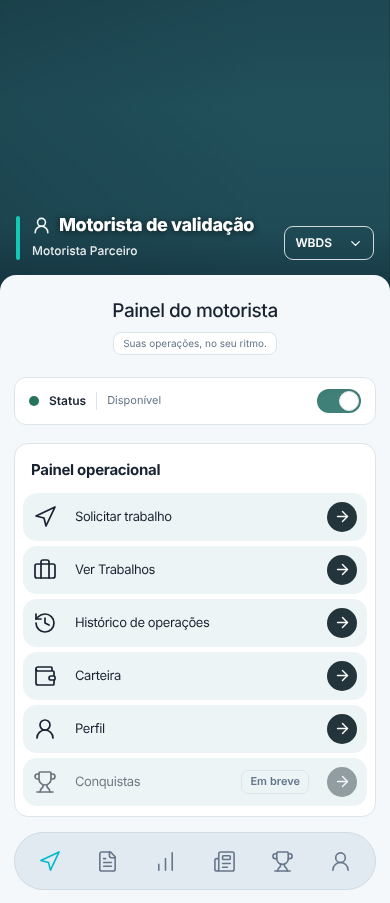
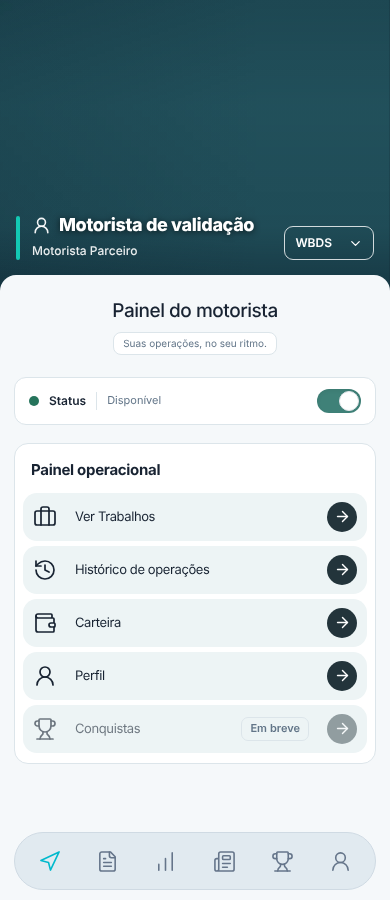
v81: Painel operacional sem Solicitar trabalho; Perfil abre o Resumo do período — Android 1.0.587, Web 2.3.244, Windows 0.2.13
Claude-Session: https://claude.ai/code/session_01ASk6AVRSjq21hzr82RT83a

diff --git a/src/components/driver/DriverIdlePanel.tsx b/src/components/driver/DriverIdlePanel.tsx
@@ -1,5 +1,5 @@
 import React, { useState } from "react";
-import { ArrowLeft, ArrowRight, Briefcase, CheckCircle2, ChevronDown, ChevronRight, Clock, History, Navigation, Route, Trophy, UserRound, Wallet } from "lucide-react";
+import { ArrowLeft, ArrowRight, Briefcase, CheckCircle2, ChevronDown, ChevronRight, Clock, History, Route, Trophy, UserRound, Wallet } from "lucide-react";
 import type { LucideIcon } from "lucide-react";
 import { useSessionStore } from "../../context/AppContext";
 import { useDriverRewards } from "../../hooks/useRewards";
@@ -17,12 +17,10 @@ type IdleMenuItem = { id: string; label: string; icon: LucideIcon; hint?: string
  * Painel do motorista sem operação: status no topo e uma lista de opções (mesmo desenho da Central de gestão).
  * "Ver Trabalhos" e "Histórico de operações" abrem a própria tela dentro do painel, com botão de voltar.
  */
-export function DriverIdlePanel({ online, suspended, onAvailabilityChange, request, onProfile, onWallet, workJobIds = [], works, history, defaultView = "menu", children }: {
+export function DriverIdlePanel({ online, suspended, onAvailabilityChange, onProfile, onWallet, workJobIds = [], works, history, defaultView = "menu", children }: {
   online: boolean;
   suspended: boolean;
   onAvailabilityChange: (online: boolean) => void;
-  /** Estado do pedido de trabalho; a opção "Solicitar trabalho" envia o pedido (com um pedido em andamento, abre "Ver Trabalhos" para acompanhar/cancelar). */
-  request: { pending: boolean; busy: boolean; success: boolean; onRequest: () => void };
   onProfile: () => void;
   /** Abre a página Carteira (ofertas, recebimentos e histórico de ganhos). */
   onWallet: () => void;
@@ -39,11 +37,7 @@ export function DriverIdlePanel({ online, suspended, onAvailabilityChange, reque
   const { offers } = useDriverRewards(currentUser?.id);
   const worksCount = workJobIds.length, worksNew = offers.filter(offer => offer.status === "pending" && offer.jobId && workJobIds.includes(offer.jobId)).length;
   const id = React.useId();
-  const blocked = suspended || !online;
-  const requestHint = suspended ? "Bloqueado na suspensão" : !online ? "Fique disponível" : request.pending ? "Aguardando a empresa" : request.busy ? "Enviando…" : request.success ? "Solicitação enviada" : undefined;
   const items: IdleMenuItem[] = [
-    { id: "request", label: "Solicitar trabalho", icon: Navigation, hint: requestHint, disabled: request.pending ? false : blocked || request.busy || request.success,
-      onSelect: () => (request.pending ? setView("works") : request.onRequest()) },
     { id: "works", label: "Ver Trabalhos", icon: Briefcase, badge: worksNew > 0 ? `${worksNew} ${worksNew === 1 ? "nova" : "novas"}` : worksCount || undefined, onSelect: () => setView("works") },
     { id: "history", label: "Histórico de operações", icon: History, onSelect: () => setView("history") },
     { id: "wallet", label: "Carteira", icon: Wallet, onSelect: onWallet },

diff --git a/scripts/fixtures/driver-idle-panel-492.tsx b/scripts/fixtures/driver-idle-panel-492.tsx
@@ -37,7 +37,6 @@ function App() {
       <main className="nvu-driver-surface" data-page="dashboard">
         <DriverIdlePanel key={`panel:${generation}`} defaultView={config.view || "menu"} online={config.online !== false} suspended={Boolean(config.suspended)}
           onAvailabilityChange={online => { calls.push({ action: "availability", online }); setConfig((v: any) => ({ ...v, online })); }}
-          request={{ pending: Boolean(config.pending), busy: Boolean(config.busy), success: Boolean(config.success), onRequest: () => { calls.push({ action: "request" }); setConfig((v: any) => ({ ...v, pending: true })); } }}
           onProfile={() => calls.push({ action: "profile" })} onWallet={() => calls.push({ action: "wallet" })} workJobIds={config.manual ? [manual.id] : []}
           works={<>
           <DriverWorkRequest variant="panel" online={config.online !== false} suspended={Boolean(config.suspended)} busy={Boolean(config.busy)}

diff --git a/src/pages/driver/Dashboard.tsx b/src/pages/driver/Dashboard.tsx
@@ -1003,8 +1003,7 @@ function DashboardComponent({
       <DriverIdlePanel
         online={Boolean(currentUser?.isOnline)} suspended={operationalSuspension.active}
         onAvailabilityChange={updateUserOnlineStatus}
-        request={{ pending: Boolean(myDemand), busy: isSubmittingDemand, success: demandSuccess, onRequest: () => void handleRequestDemand() }}
-        onProfile={() => navigate("/driver/profile")} onWallet={() => navigate("/driver/recompensas")}
+        onProfile={() => navigate("/driver/profile", { state: { profileTab: "profile" } })} onWallet={() => navigate("/driver/recompensas")}
         workJobIds={pendingDriverJobs.map(job => job.id)}
         works={<>
           {solicitarTrabalhoCard}

diff --git a/capacitor.config.ts b/capacitor.config.ts
@@ -15,7 +15,7 @@ const selfHostedOtaEnabled =
   && Boolean(selfHostedOtaManifestUrl)
   && Boolean(selfHostedOtaPublicKey);
 const nativeChannel = String(
-  process.env.NVU_NATIVE_CHANNEL || "production-586",
+  process.env.NVU_NATIVE_CHANNEL || "production-587",
 ).trim();
 
 /**

diff --git a/desktop/windows/README.md b/desktop/windows/README.md
@@ -1,4 +1,4 @@
-# NVU PRO Windows 0.2.12
+# NVU PRO Windows 0.2.13
 
 Aplicativo Windows (Electron) e plugin de telemetria SCS (ETS2/ATS) do mesmo projeto Web/Android. Este documento é técnico; o guia para o usuário final é `GUIA-ATUALIZAR-NVU-E-PREPARAR-ETS2-ATS.md`.
 
@@ -8,7 +8,7 @@ Aplicativo Windows (Electron) e plugin de telemetria SCS (ETS2/ATS) do mesmo pro
 
 | Arquivo | Para quem |
 |---|---|
-| `NVU-PRO-Setup-0.2.12-x64.exe` | **Principal.** Instala ou atualiza a NVU (por usuário, sem administrador). |
+| `NVU-PRO-Setup-0.2.13-x64.exe` | **Principal.** Instala ou atualiza a NVU (por usuário, sem administrador). |
 | `release-manifest.json`, `SHA256SUMS.txt`, `Verificar-NVU.ps1` | Conferência do arquivo baixado (tamanho, SHA-256, assinatura). |
 | `nvu_scs_telemetry.dll` + `.manifest.json` e `plugin/` (fonte) | Opcional/técnico: plugin e fonte do plugin. |
 | Projeto completo (ZIP) e relatório | Opcional/técnico. |
@@ -29,7 +29,7 @@ npm run windows:verify                # reverifica artifacts/windows (tamanho, S
 npm run windows:portable              # secundário: ZIP sem instalação
 npm run windows:dev                   # abre o aplicativo a partir do código
 npm run test:role-matrix              # matriz por papel (emulador, dados fictícios)
-bash desktop/windows/tests/e2e/wine-installer-check.sh artifacts/windows/NVU-PRO-Setup-0.2.12-x64.exe ~/wine-nvu   # emulado (Wine), prefixo descartável
+bash desktop/windows/tests/e2e/wine-installer-check.sh artifacts/windows/NVU-PRO-Setup-0.2.13-x64.exe ~/wine-nvu   # emulado (Wine), prefixo descartável
 ```
 
 A versão do aplicativo e do plugin vem de **uma única fonte**: `desktop/windows/package.json` (`version` e `nvu.pluginVersion`). O build do plugin grava a versão na DLL e gera `nvu_scs_telemetry.manifest.json` (SHA-256/tamanho); o aplicativo confere a DLL empacotada com esse manifesto ao iniciar.

diff --git a/LEIA-ME-1.0.587.md b/LEIA-ME-1.0.587.md
@@ -1,6 +1,11 @@
-# NVU PRO 1.0.586 (Android) / Web 2.3.243 / Windows 0.2.12
+# NVU PRO 1.0.587 (Android) / Web 2.3.244 / Windows 0.2.13
 
-Base atual do projeto (branch `dist-build`). **Uma única base**: Web (`src/`), Android (`android/`, `versionCode` 586 — instala como atualização da 585/584/583/582/581/580/579/578/577/576/575/574/573/572/571/570/569/568/567/566/565/564/563/562/561/560/559/558/557/556/555/554/553/552/551/550, sem limpar dados), Windows (`desktop/windows/`, 0.2.9, carrega o mesmo web) e servidor (`functions/`, `firestore.rules`, `storage.rules`).
+Base atual do projeto (branch `dist-build`). **Uma única base**: Web (`src/`), Android (`android/`, `versionCode` 587 — instala como atualização da 586/585/584/583/582/581/580/579/578/577/576/575/574/573/572/571/570/569/568/567/566/565/564/563/562/561/560/559/558/557/556/555/554/553/552/551/550, sem limpar dados), Windows (`desktop/windows/`, 0.2.9, carrega o mesmo web) e servidor (`functions/`, `firestore.rules`, `storage.rules`).
+
+## 1.0.587 — Painel operacional: sem “Solicitar trabalho”, Perfil abre o Resumo do período
+- **Removida a opção “Solicitar trabalho”** do Painel operacional (o pedido continua em “Ver Trabalhos”). A lista fica: Ver Trabalhos, Histórico de operações, Carteira, Perfil e Conquistas (em breve).
+- **“Perfil” agora abre a página de Perfil com o Resumo do período** (a mesma do botão Perfil da barra inferior). Antes ele reabria o próprio painel, e parecia que nada acontecia.
+- Sem mudança no servidor (nada a publicar).
 
 ## 1.0.586 — Carteira
 - **Nova opção “Carteira” no Painel operacional** (entre “Histórico de operações” e “Perfil”): abre a página que antes se chamava “Trabalhos” (ofertas, recebimentos, histórico de ganhos e informações).
